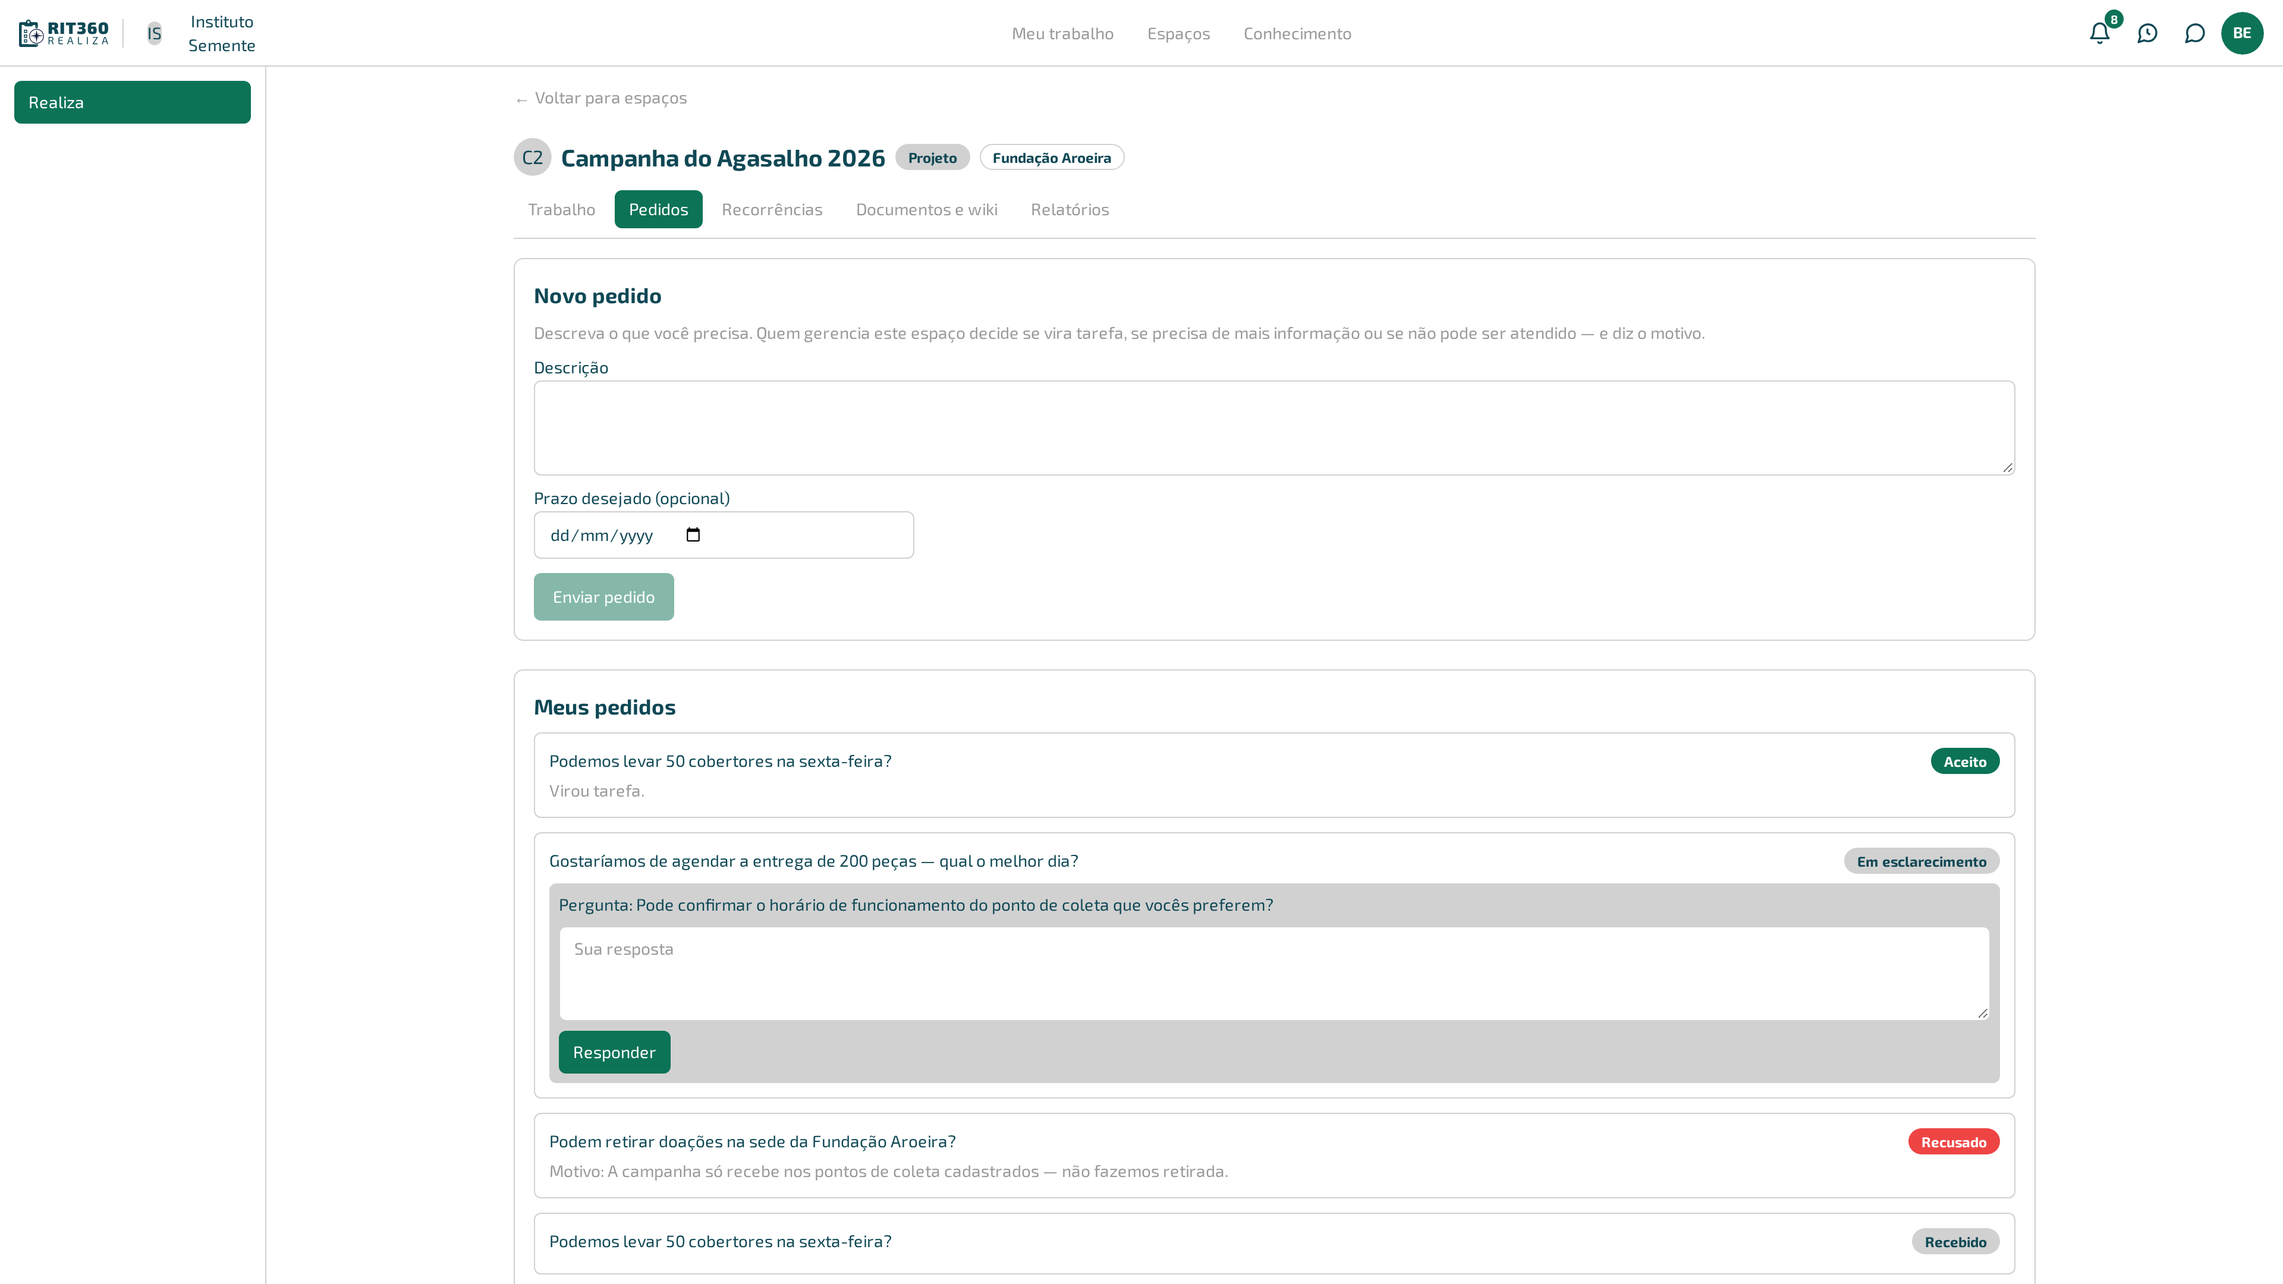
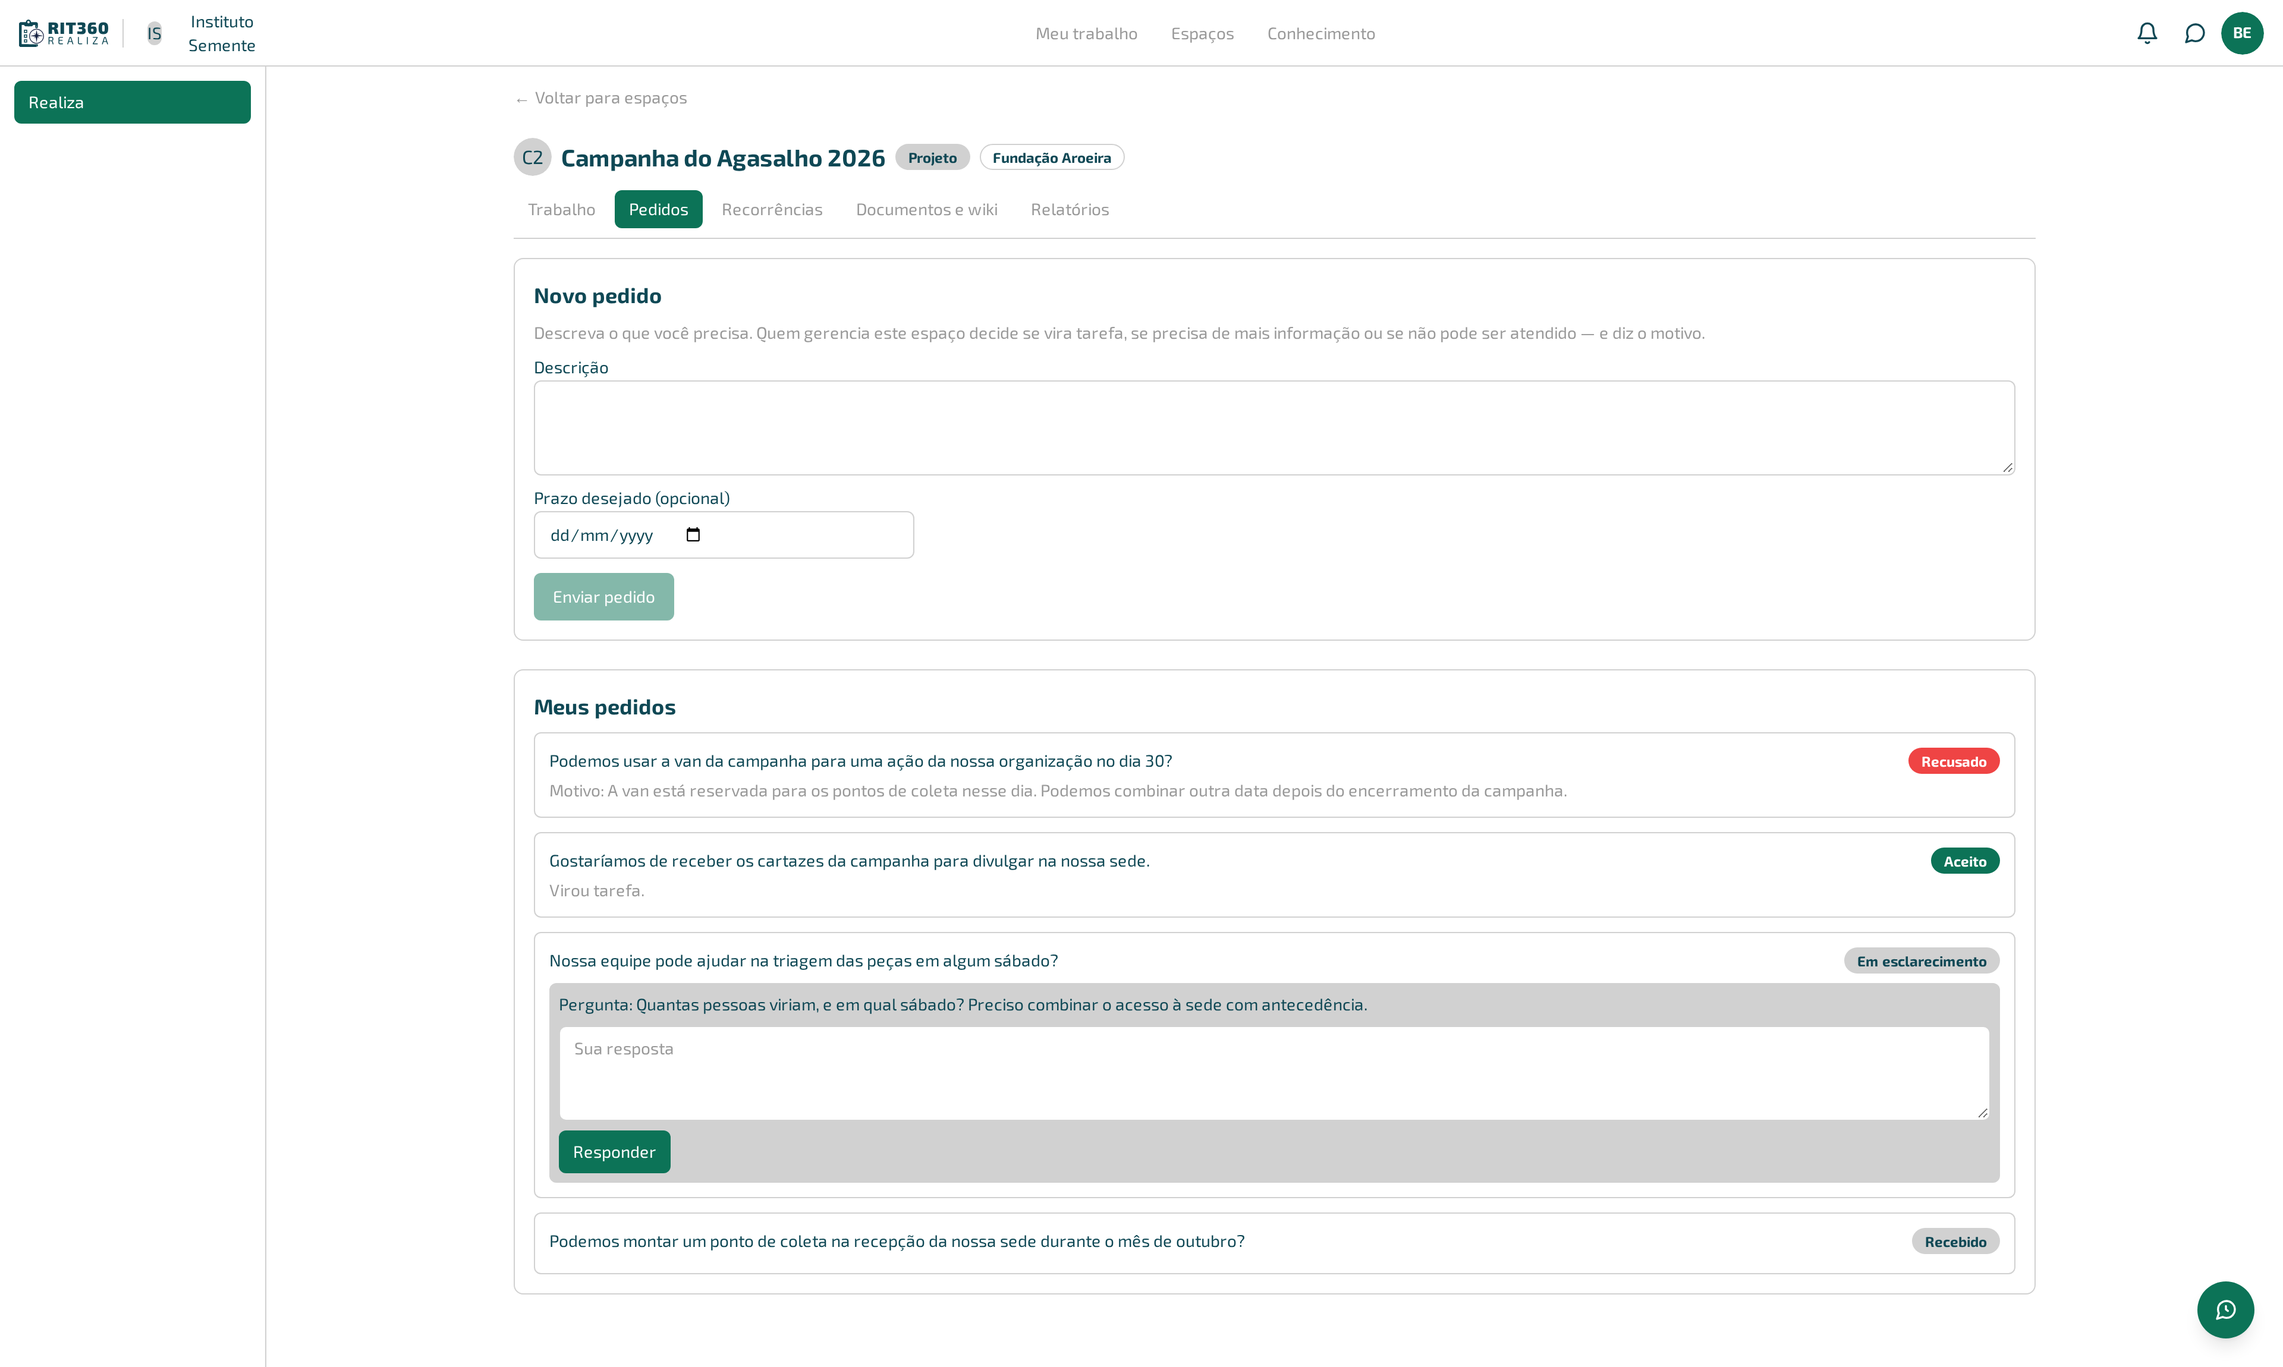
docs: acompanha a 0.20.0 — wiki em leitura, abas da administração e alcance
Wiki: a página abre para leitura, com "Editar" para quem pode, e o editor
ganhou barra de formatação de verdade. A página descreve o caminho novo,
os endereços que continuam valendo e o que a barra oferece.

As imagens da wiki ficam pendentes: as do editor antigo saíram porque a
barra não existe mais, e as novas esperam a #170 — hoje o texto aparece
sem formatação na leitura e no editor, e a imagem ensinaria o contrário
do que a página diz.

Administração do serviço: a área ganhou menu de abas no lugar do cartão
que escondia oito telas. O índice passou a listar as telas por aba, e o
painel a explicar onde as contagens ficam. As capturas esperam a #168
(títulos ainda vão ser normalizados) e não devem enquadrar a contagem de
espaços enquanto a #167 não sair.

Conhecimento da organização: a seção que explicava interno x compartilhado
estava na tela errada. Ali a visibilidade não decide nada — só quem é da
organização alcança, e ponto. A explicação da visibilidade ficou onde ela
vale, que é dentro de um espaço, e a captura do espaço agora mostra um
documento de cada tipo.

Fila de triagem e "Meus pedidos" refeitas com o cenário novo: a fila com
seis pedidos e a visão da convidada de fora com os quatro estados.

diff --git a/admin-servico/index.md b/admin-servico/index.md
@@ -20,50 +20,60 @@ por estar aqui. A tela de administração do serviço mostra só contagens — q
 organizações existem, quantas pessoas têm vínculo, quantos espaços foram
 criados — nunca o que está dentro deles.
 
-## O que você encontra aqui
+## Como navegar
 
-- [O painel](/admin-servico/painel/) — as três contagens e o caminho para o
-  resto, tudo numa tela só, em duas colunas no computador.
-- [Organizações](/admin-servico/organizacoes/) — a lista de todas as
-  organizações do serviço, o domínio de cada uma, e o cadastro de organização
-  nova.
-- [Pedidos de organização](/admin-servico/pedidos-de-organizacao/) — os
-  pedidos de criação que o produto não conseguiu decidir sozinho, para você
-  aprovar ou recusar.
-- [Servidor de e-mail do produto](/admin-servico/email/) — o servidor único
-  por onde saem o convite de conta, a recuperação de senha e os avisos que
-  as organizações escolhem receber.
-- [Entrada pelo Google](/admin-servico/entrada-pelo-google/) — liga ou desliga o
-  botão de entrar com conta Google, para todo mundo.
-- [Domínios autorizados](/admin-servico/dominios-autorizados/) — os domínios de
-  e-mail que dispensam convite para criar conta.
-- [Provedores de inteligência artificial](/admin-servico/provedores-de-ia/) — o
-  provedor padrão que atende as organizações que não cadastraram o próprio, o
-  modelo que cada um usa, e o consumo de IA de todas as organizações.
-- [Feedbacks](/admin-servico/feedbacks/) — o que as pessoas enviaram de dentro
-  do produto, e a resposta a cada um.
-- [Quem administra o serviço](/admin-servico/quem-administra/) — conceder,
-  listar e revogar esse acesso.
-- [Cópia de segurança](/admin-servico/copia-de-seguranca/) — o que a tela mostra
-  sobre a cópia de segurança do banco, e o que ela ainda não faz.
-- [Destinos da cópia de segurança](/admin-servico/destinos-backup/) — para onde
-  a cópia do banco é enviada fora do servidor, e o teste que grava, lê e apaga
-  de verdade.
-- [Tarefas agendadas](/admin-servico/tarefas/) — o estado de toda rotina
-  automática da instalação: nunca rodou, falhou, reprocessando ou deu certo —
-  com o botão para reprocessar o que falhou e o de conferir o espelho com a
-  origem.
-- [Mudar de servidor](/admin-servico/mudar-de-servidor/) — exporta a
-  instalação inteira num pacote cifrado, ou importa um pacote numa
-  instalação vazia, sempre com ensaio antes de gravar de verdade.
+No alto de toda tela desta área fica um menu de abas, sempre visível: **"Visão geral"**,
+**"Organizações"**, **"Acesso"**, **"Serviços"**, **"Manutenção"** e **"Feedbacks"**. Cada aba
+abre uma tela de entrada, e dali saem as telas daquele assunto.
 
-![Painel da administração do serviço, com as contagens gerais](/assets/capturas/admin-servico-painel-desktop.png)
-{: .mt-4 }
+{: .tip }
+O menu acompanha você: mesmo três telas adiante, ele continua no alto, e trocar de assunto é um
+clique — não é preciso voltar à primeira tela.
 
-A mesma tela no celular:
+## O que você encontra aqui, por aba
 
-![Painel da administração do serviço, com as contagens gerais — no celular](/assets/capturas/admin-servico-painel-celular.png){: style="max-width:375px" }
-{: .mt-4 }
+**Visão geral** — [o painel](/admin-servico/painel/), com as contagens do serviço.
+
+**Organizações**
+- [Organizações](/admin-servico/organizacoes/) — a lista de todas as organizações do serviço, o
+  domínio de cada uma, e o cadastro de organização nova.
+- [Pedidos de organização](/admin-servico/pedidos-de-organizacao/) — os pedidos de criação que o
+  produto não conseguiu decidir sozinho, para você aprovar ou recusar. O número de pedidos
+  esperando decisão aparece no próprio cartão.
+
+**Acesso**
+- [Quem administra o serviço](/admin-servico/quem-administra/) — conceder, listar e revogar esse
+  acesso.
+- [Entrada pelo Google](/admin-servico/entrada-pelo-google/) — liga ou desliga o botão de entrar
+  com conta Google, para todo mundo.
+- [Domínios autorizados](/admin-servico/dominios-autorizados/) — os domínios de e-mail que
+  dispensam convite para criar conta.
+
+**Serviços**
+- [Servidor de e-mail do produto](/admin-servico/email/) — o servidor único por onde saem o
+  convite de conta, a recuperação de senha e os avisos que as organizações escolhem receber.
+- [Provedores de inteligência artificial](/admin-servico/provedores-de-ia/) — o provedor padrão
+  que atende as organizações que não cadastraram o próprio, o modelo que cada um usa, e o consumo
+  de IA de todas as organizações.
+
+**Manutenção**
+- [Cópia de segurança](/admin-servico/copia-de-seguranca/) — o que a tela mostra sobre a cópia de
+  segurança do banco, e o que ela ainda não faz.
+- [Destinos da cópia de segurança](/admin-servico/destinos-backup/) — para onde a cópia do banco é
+  enviada fora do servidor, e o teste que grava, lê e apaga de verdade.
+- [Tarefas agendadas](/admin-servico/tarefas/) — o estado de toda rotina automática da instalação:
+  nunca rodou, falhou, reprocessando ou deu certo — com o botão para reprocessar o que falhou e o
+  de conferir o espelho com a origem.
+- [Mudar de servidor](/admin-servico/mudar-de-servidor/) — exporta a instalação inteira num pacote
+  cifrado, ou importa um pacote numa instalação vazia, sempre com ensaio antes de gravar de
+  verdade.
+
+**Feedbacks** — [o que as pessoas enviaram](/admin-servico/feedbacks/) de dentro do produto, e a
+resposta a cada um.
+
+<!-- CAPTURA PENDENTE: a tela mudou na 0.20.0 (menu de abas) e os títulos das telas desta área
+     ainda vão ser normalizados (issue #168). Refazer depois disso, e sem enquadrar a contagem de
+     espaços enquanto a issue #167 não sair — ela mostra zero havendo espaços. -->
 
 ## Como se chega aqui
 

diff --git a/conhecimento/wiki.md b/conhecimento/wiki.md
@@ -3,7 +3,7 @@ title: "Wiki: páginas, histórico e publicação pública"
 nav_order: 2
 parent: "Conhecimento"
 permalink: /conhecimento/wiki/
-palavras_chave: "página wiki, histórico de versões, publicar página pública, restaurar versão, endereço público"
+palavras_chave: "página wiki, ler página, editar página, negrito, formatar texto, colar do word, histórico de versões, publicar página pública, restaurar versão, endereço público"
 ---
 
 # Wiki: páginas, histórico e publicação pública
@@ -11,6 +11,29 @@ palavras_chave: "página wiki, histórico de versões, publicar página pública
 A aba **"Wiki"** do Conhecimento é para texto, não para arquivo: o passo a passo de um processo, a
 política interna, a apresentação da organização — qualquer coisa que se escreve e se atualiza ao
 longo do tempo, em vez de se enviar como arquivo pronto.
+
+## Abrir uma página para ler
+
+Clique no nome da página na lista. Ela abre **para leitura**, com o texto já formatado — títulos,
+listas e links do jeito que foram escritos.
+
+### Por que isto importa
+
+A maior parte das vezes em que alguém abre uma página da wiki é para consultar, não para escrever.
+Abrindo em leitura, quem só quer conferir um passo não corre o risco de mexer no texto sem querer
+— e quem não tem permissão de editar consegue ler normalmente, em vez de esbarrar numa tela que
+não é para ela.
+
+Quem pode editar vê o botão **"Editar"** no alto da página. Quem não pode simplesmente não vê o
+botão.
+
+<!-- CAPTURA PENDENTE: leitura da página de wiki, desktop e celular. Feita e descartada em
+     23/09/2026 porque a tela mostrava título e lista sem formatação (issue #170); refazer quando
+     a correção sair, pelas rotas /conhecimento/wiki/:id e /espacos/:id/conhecimento/wiki/:id. -->
+
+{: .tip }
+O endereço da página é o mesmo de sempre. Link guardado nos favoritos, ou colado numa conversa,
+continua levando à página — agora abrindo em leitura.
 
 ## Criar uma página
 
@@ -21,19 +44,33 @@ Você cai direto no editor da página nova, pronta para escrever.
 
 ## Editar uma página
 
+Na página aberta, clique em **"Editar"**.
+
 Escreva no corpo do editor. Ajuste o **"Título"** no campo acima dele quando precisar, e, dentro
 de um espaço, escolha a **"Visibilidade"**: **"Interno (só quem administra a organização)"** ou
 **"Compartilhado (todo participante do espaço)"**.
 
-Clique em **"Salvar"** para gravar. Cada vez que você salva, nasce **uma versão nova** — nada se
-sobrescreve, e o texto de antes continua acessível no histórico.
+Clique em **"Salvar"** para gravar — e você volta para a leitura, já vendo o texto como ficou.
+**"Cancelar"** também volta para a leitura, sem gravar nada. Cada vez que você salva, nasce **uma
+versão nova** — nada se sobrescreve, e o texto de antes continua acessível no histórico.
 
-![Editor de uma página de wiki, com texto, o seletor de Visibilidade e o botão Salvar](/assets/capturas/conhecimento-wiki-editor-desktop.png)
-{: .mt-4 }
+### Formatar o texto
 
-A mesma tela no celular:
+A barra acima do texto tem, nesta ordem: **"Negrito"**, **"Itálico"**, **"Título 1"**,
+**"Título 2"**, **"Parágrafo"**, **"Lista"**, **"Lista numerada"** e **"Link"**.
 
-![Editor de uma página de wiki, com texto, o seletor de Visibilidade e o botão Salvar — no celular](/assets/capturas/conhecimento-wiki-editor-celular.png){: style="max-width:375px" }
+Selecione o trecho e clique no botão — o texto muda na hora, na própria tela, sem código nenhum à
+vista. Em **"Link"**, uma caixa pergunta **"Endereço do link:"**; cole o endereço e confirme.
+
+{: .tip }
+**Pode colar de um documento do Word ou do Google Docs.** O texto chega com a formatação que
+importa — negrito, títulos, listas — e sem o lixo invisível que esses programas costumam trazer
+junto, que é o que antes deixava a página com fontes e espaçamentos estranhos.
+
+<!-- CAPTURA PENDENTE: editor da página de wiki, desktop e celular. As imagens anteriores mostravam
+     a barra de formatação antiga, que saiu na 0.20.0, e foram removidas. As novas ficam para
+     quando a issue #170 sair: hoje o corpo do texto aparece sem formatação, e a imagem ensinaria
+     o contrário do que a página diz. Rota: /conhecimento/wiki/:id/editar. -->
 
 ## Ver o histórico e voltar a uma versão anterior
 
@@ -68,8 +105,9 @@ permissão ampla na organização, por si só, não é suficiente.
 2. Confirme: "Publicar a versão atual desta página? Ela ficará acessível sem conta, por um
    endereço público."
 
-A página passa a existir num endereço no formato **`/p/<código>`**, que aparece no editor como o
-link **"Ver página pública"**.
+A página passa a existir num endereço no formato **`/p/<código>`**, que aparece como o link
+**"Ver página pública"** — tanto no editor quanto na página aberta em leitura, sempre que houver
+publicação no ar. Para pegar o link de uma página publicada semanas atrás, basta abri-la.
 
 {: .important }
 **"Público" quer dizer público mesmo: qualquer pessoa com o link lê a página, sem entrar no

diff --git a/conhecimento/index.md b/conhecimento/index.md
@@ -21,15 +21,18 @@ ferramenta nos dois casos.
 - [Wiki: páginas, histórico e publicação pública](/conhecimento/wiki/) — escrever uma página,
   voltar a uma versão anterior, e publicar uma página para quem não tem conta no Realiza.
 
-## Interno ou compartilhado
+## Quem alcança o Conhecimento da organização
 
-Todo documento, link e página de wiki tem uma visibilidade:
+O que está na aba **"Conhecimento"** — fora de qualquer espaço — é da organização inteira, e só
+quem tem vínculo pleno com ela alcança. Quem foi convidado de fora, para trabalhar num espaço
+específico, **não vê nada** daqui: nem os arquivos, nem os links, nem as páginas de wiki.
 
-- **"Interno"** — só quem administra a organização (ou o espaço, quando é um item de espaço) vê.
-- **"Compartilhado"** — todo participante do espaço vê, inclusive convidado de fora.
-
-Quem não tem permissão ampla na organização — um convidado — só consegue criar e ver o
-**"Compartilhado"**; a opção "Interno" nem aparece para essa pessoa, porque o servidor recusaria.
+{: .note }
+Todo item também tem uma etiqueta de visibilidade, **"Interno"** ou **"Compartilhado"**, mas aqui
+ela não muda quem enxerga o quê — a regra de alcance já é "só quem é da organização". A
+visibilidade decide de verdade **dentro de um espaço**, que é onde existe gente de fora
+participando; veja [Interno ou compartilhado, dentro de um
+espaço](/trabalho/documentos-e-wiki-do-espaco/).
 
 ![Tela Conhecimento da organização, com as abas internas Documentos e Wiki](/assets/capturas/conhecimento-visao-geral-desktop.png)
 {: .mt-4 }

diff --git a/admin-servico/painel.md b/admin-servico/painel.md
@@ -15,16 +15,12 @@ delas.
 
 ## Passo a passo
 
-1. Abra **"Administração geral"**.
-2. As três contagens aparecem logo no topo da tela.
+1. Na administração do serviço, abra a aba **"Visão geral"** — é a que abre por padrão.
+2. As três contagens aparecem em **"Números do serviço"**.
 
-![Painel da administração do serviço, com as contagens gerais](/assets/capturas/admin-servico-painel-desktop.png)
-{: .mt-4 }
-
-A mesma tela no celular:
-
-![Painel da administração do serviço, com as contagens gerais — no celular](/assets/capturas/admin-servico-painel-celular.png){: style="max-width:375px" }
-{: .mt-4 }
+<!-- CAPTURA PENDENTE: a tela mudou na 0.20.0 (menu de abas) e os títulos ainda vão ser
+     normalizados (issue #168). Refazer depois disso, e sem enquadrar a contagem de espaços
+     enquanto a issue #167 não sair — ela mostra zero havendo espaços. -->
 
 ## O que cada número conta
 
@@ -39,9 +35,9 @@ A mesma tela no celular:
 ## Quando as contagens não carregam
 
 Se o painel não conseguir buscar as contagens, elas ficam paradas em **"Carregando…"**
-— nunca mostram um número errado — e a mensagem **"Não foi possível carregar o
-painel."** aparece no cartão de introdução, acima das contagens. Recarregue a
-página; se o problema continuar, avise a equipe técnica.
+e a mensagem **"Não foi possível carregar o painel."** aparece no cartão de
+introdução, acima das contagens. Recarregue a página; se o problema continuar,
+avise a equipe técnica.
 
 ## O que esses números não dizem
 
